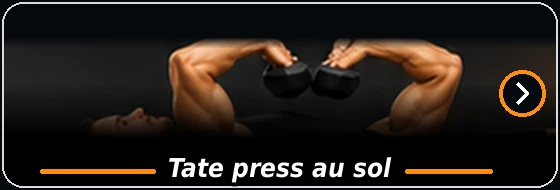
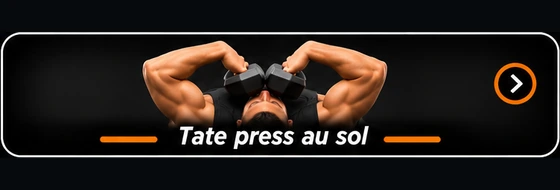
Add files via upload

diff --git a/triceps-v1.js b/triceps-v1.js
@@ -1,25 +1,5 @@
 const tricepsExercices = [
   {
-    id: "dips-sur-chaise",
-    titre: "Dips sur chaise",
-    cible: "Triceps, épaules antérieures, poitrine en assistance",
-    materiel: "Chaise ou banc stable",
-    niveau: "Débutant à intermédiaire",
-    series: "3",
-    repetitions: "8 à 15",
-    tempo: "2–0–2",
-    repos: "45 à 60 s",
-    execution: [
-      "Place les mains sur le bord d’une chaise stable, doigts vers l’avant.",
-      "Avance légèrement les pieds et garde la poitrine ouverte.",
-      "Fléchis les coudes pour descendre le bassin vers le sol sans hausser les épaules.",
-      "Pousse dans les paumes pour revenir en extension sans verrouiller brutalement les coudes."
-    ],
-    conseil: "Garde les coudes dirigés vers l’arrière. Raccourcis l’amplitude si les épaules sont sensibles.",
-    erreurs: "Chaise instable, épaules remontées, descente trop profonde, pieds trop loin pour ton niveau.",
-    image: "./triceps-dips-sur-chaise.webp"
-  },
-  {
     id: "pompes-diamant",
     titre: "Pompes diamant",
     cible: "Triceps, poitrine, gainage",
@@ -38,6 +18,26 @@ const tricepsExercices = [
     conseil: "Si c’est trop difficile, réalise l’exercice sur les genoux ou sur un support surélevé.",
     erreurs: "Coudes trop écartés, dos creusé, mouvement trop rapide, amplitude incomplète.",
     image: "./triceps-pompes-diamant.webp"
+  },
+  {
+    id: "dips-sur-chaise",
+    titre: "Dips sur chaise",
+    cible: "Triceps, épaules antérieures, poitrine en assistance",
+    materiel: "Chaise ou banc stable",
+    niveau: "Débutant à intermédiaire",
+    series: "3",
+    repetitions: "8 à 15",
+    tempo: "2–0–2",
+    repos: "45 à 60 s",
+    execution: [
+      "Place les mains sur le bord d’une chaise stable, doigts vers l’avant.",
+      "Avance légèrement les pieds et garde la poitrine ouverte.",
+      "Fléchis les coudes pour descendre le bassin vers le sol sans hausser les épaules.",
+      "Pousse dans les paumes pour revenir en extension sans verrouiller brutalement les coudes."
+    ],
+    conseil: "Garde les coudes dirigés vers l’arrière. Raccourcis l’amplitude si les épaules sont sensibles.",
+    erreurs: "Chaise instable, épaules remontées, descente trop profonde, pieds trop loin pour ton niveau.",
+    image: "./triceps-dips-sur-chaise.webp"
   },
   {
     id: "kickback-triceps",
@@ -60,26 +60,6 @@ const tricepsExercices = [
     image: "./triceps-kickback-triceps.webp"
   },
   {
-    id: "extension-nuque-un-haltere",
-    titre: "Extension nuque à un haltère",
-    cible: "Triceps, accent sur la longue portion",
-    materiel: "Un haltère",
-    niveau: "Tous niveaux",
-    series: "3",
-    repetitions: "8 à 12",
-    tempo: "2–1–2",
-    repos: "45 à 60 s",
-    execution: [
-      "Tiens un haltère à deux mains au-dessus de la tête ou d’une main selon ton confort.",
-      "Garde les coudes orientés vers l’avant et proches de la tête.",
-      "Fléchis les coudes pour descendre l’haltère derrière la nuque.",
-      "Tends les bras vers le haut sans cambrer le bas du dos."
-    ],
-    conseil: "Contracte les abdominaux et serre les fessiers pour éviter de cambrer.",
-    erreurs: "Coudes trop ouverts, nuque crispée, amplitude trop grande, charge excessive.",
-    image: "./triceps-extension-nuque-un-haltere.webp"
-  },
-  {
     id: "extension-nuque-deux-mains",
     titre: "Extension nuque à deux mains",
     cible: "Triceps, longue portion",
@@ -98,46 +78,6 @@ const tricepsExercices = [
     conseil: "Travaille proprement plutôt que lourd pour bien sentir l’étirement du triceps.",
     erreurs: "Coudes qui s’ouvrent, dos trop cambré, épaules remontées, descente incontrôlée.",
     image: "./triceps-extension-nuque-deux-mains.webp"
-  },
-  {
-    id: "extension-triceps-allonge-sol",
-    titre: "Extension triceps allongé au sol",
-    cible: "Triceps",
-    materiel: "Deux haltères et tapis",
-    niveau: "Intermédiaire",
-    series: "3",
-    repetitions: "8 à 12",
-    tempo: "2–1–2",
-    repos: "60 s",
-    execution: [
-      "Allonge-toi au sol, bras tendus au-dessus de la poitrine, haltères en main.",
-      "Garde les bras quasi verticaux et les coudes orientés vers le plafond.",
-      "Fléchis les coudes pour descendre les haltères près des tempes.",
-      "Tends les bras pour revenir en haut sans laisser les coudes s’écarter."
-    ],
-    conseil: "Le sol limite l’amplitude et aide à rester en sécurité. Contrôle bien la descente.",
-    erreurs: "Bras qui partent vers l’arrière, poignets cassés, choc des haltères, coudes trop ouverts.",
-    image: "./triceps-extension-triceps-allonge-sol.webp"
-  },
-  {
-    id: "developpe-serre-sol",
-    titre: "Développé serré au sol",
-    cible: "Triceps, poitrine, épaules antérieures",
-    materiel: "Deux haltères et tapis",
-    niveau: "Tous niveaux",
-    series: "3",
-    repetitions: "8 à 12",
-    tempo: "2–0–2",
-    repos: "60 s",
-    execution: [
-      "Allonge-toi au sol, genoux fléchis, haltères au-dessus de la poitrine.",
-      "Garde une prise serrée et les coudes relativement proches du buste.",
-      "Descends jusqu’au contact léger des bras avec le sol.",
-      "Pousse vers le haut en accentuant l’extension des triceps."
-    ],
-    conseil: "Le développé serré est plus confortable au sol et très utile pour cibler les triceps à la maison.",
-    erreurs: "Coudes trop écartés, charge trop lourde, poignets cassés, rebond sur le sol.",
-    image: "./triceps-developpe-serre-sol.webp"
   },
   {
     id: "extension-triceps-unilaterale",
@@ -160,6 +100,46 @@ const tricepsExercices = [
     image: "./triceps-extension-triceps-unilaterale.webp"
   },
   {
+    id: "extension-triceps-travers-corps",
+    titre: "Extension triceps en travers du corps",
+    cible: "Triceps, surtout la longue portion",
+    materiel: "Un haltère et un tapis",
+    niveau: "Intermédiaire",
+    series: "3 par bras",
+    repetitions: "10 à 12 par bras",
+    tempo: "2–1–2",
+    repos: "45 à 60 s",
+    execution: [
+      "Allonge-toi sur le dos, genoux fléchis, un haltère dans une main.",
+      "Tends le bras chargé vers le haut, au-dessus de l’épaule ; stabilise le haut du bras.",
+      "Plie lentement le coude pour faire descendre l’haltère en diagonale vers l’épaule opposée, sans tourner le torse.",
+      "Tends le coude pour remonter sous contrôle, puis change de bras."
+    ],
+    conseil: "Commence avec un haltère léger ; conserve l’épaule stable et une amplitude indolore.",
+    erreurs: "Bouger l’épaule au lieu du coude, descendre trop près du visage, utiliser l’élan ou cambrer le dos.",
+    image: "./triceps-extension-triceps-travers-corps.webp"
+  },
+  {
+    id: "extension-triceps-allonge-sol",
+    titre: "Extension triceps allongé au sol",
+    cible: "Triceps",
+    materiel: "Deux haltères et tapis",
+    niveau: "Intermédiaire",
+    series: "3",
+    repetitions: "8 à 12",
+    tempo: "2–1–2",
+    repos: "60 s",
+    execution: [
+      "Allonge-toi au sol, bras tendus au-dessus de la poitrine, haltères en main.",
+      "Garde les bras quasi verticaux et les coudes orientés vers le plafond.",
+      "Fléchis les coudes pour descendre les haltères près des tempes.",
+      "Tends les bras pour revenir en haut sans laisser les coudes s’écarter."
+    ],
+    conseil: "Le sol limite l’amplitude et aide à rester en sécurité. Contrôle bien la descente.",
+    erreurs: "Bras qui partent vers l’arrière, poignets cassés, choc des haltères, coudes trop ouverts.",
+    image: "./triceps-extension-triceps-allonge-sol.webp"
+  },
+  {
     id: "tate-press-sol",
     titre: "Tate press au sol",
     cible: "Triceps, surtout portion latérale et médiale",
@@ -178,6 +158,26 @@ const tricepsExercices = [
     conseil: "Commence léger : le Tate press demande de la précision et un bon contrôle des coudes.",
     erreurs: "Amplitude trop grande, trajectoire confuse, charges trop lourdes, poignets instables.",
     image: "./triceps-tate-press-sol.webp"
+  },
+  {
+    id: "developpe-serre-sol",
+    titre: "Développé serré au sol",
+    cible: "Triceps, poitrine, épaules antérieures",
+    materiel: "Deux haltères et tapis",
+    niveau: "Tous niveaux",
+    series: "3",
+    repetitions: "8 à 12",
+    tempo: "2–0–2",
+    repos: "60 s",
+    execution: [
+      "Allonge-toi au sol, genoux fléchis, haltères au-dessus de la poitrine.",
+      "Garde une prise serrée et les coudes relativement proches du buste.",
+      "Descends jusqu’au contact léger des bras avec le sol.",
+      "Pousse vers le haut en accentuant l’extension des triceps."
+    ],
+    conseil: "Le développé serré est plus confortable au sol et très utile pour cibler les triceps à la maison.",
+    erreurs: "Coudes trop écartés, charge trop lourde, poignets cassés, rebond sur le sol.",
+    image: "./triceps-developpe-serre-sol.webp"
   },
   {
     id: "dips-entre-deux-supports",

diff --git a/sw.js b/sw.js
@@ -1,6 +1,6 @@
 // Ma Bibliothèque — mise à jour Pectoraux et correctif cache de navigation PWA.
-// v87 : noveaux bandeaux et mise a jour du cache; les pages et scripts se rechargent depuis le réseau dès qu'il est disponible.
-const CACHE = "ma-bibliotheque-v88";
+// v89 : noveaux bandeaux et mise a jour du cache; les pages et scripts se rechargent depuis le réseau dès qu'il est disponible.
+const CACHE = "ma-bibliotheque-v89";
 const CORE = [
   "./", "./index.html", "./styles.css", "./app.js", "./data.json",
   "./manifest.json", "./icon-192.png", "./icon-512.png",
@@ -38,7 +38,7 @@ const BICEPS = [
   "curl-prise-inversee","curl-assis","curl-unilateral","curl-isometrique","curl-kettlebell"
 ].map(x => "./biceps-" + x + ".webp");
 const TRICEPS_IMAGES = [
-  "dips-sur-chaise", "pompes-diamant", "kickback-triceps", "extension-nuque-un-haltere",
+  "dips-sur-chaise", "pompes-diamant", "kickback-triceps", "extension-triceps-travers-corps",
   "extension-nuque-deux-mains", "extension-triceps-allonge-sol", "developpe-serre-sol",
   "extension-triceps-unilaterale", "tate-press-sol", "dips-entre-deux-supports"
 ].map(x => "./triceps-" + x + ".webp");

diff --git a/index.html b/index.html
@@ -13,7 +13,7 @@
   <link rel="stylesheet" href="./dos-v1.css?v=1">
   <link rel="stylesheet" href="./epaules-v1.css?v=1">
   <link rel="stylesheet" href="./biceps-v2.css?v=1">
-  <link rel="stylesheet" href="./triceps-v1.css?v=2">
+  <link rel="stylesheet" href="./triceps-v1.css?v=3">
   <title>Ma Bibliothèque</title>
 </head>
 <body>
@@ -57,6 +57,6 @@
   <script src="./dos-v1.js?v=2"></script>
   <script src="./epaules-v1.js?v=1"></script>
   <script src="./biceps-v2.js?v=1"></script>
-  <script src="./triceps-v1.js?v=2"></script>
+  <script src="./triceps-v1.js?v=3"></script>
 </body>
 </html>
